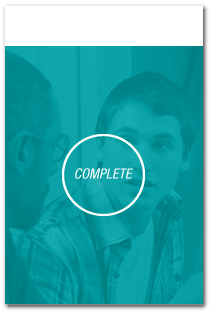
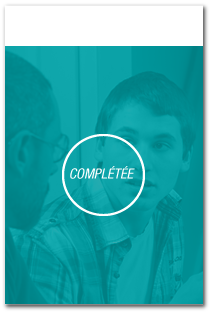
QA slides to french

Changed region(s): [[0.3128, 0.5143, 0.654, 0.5714]]

diff --git a/js/custom/service.js b/js/custom/service.js
@@ -15,7 +15,7 @@ function fnGetDataFromServer(url)
     });
 };
 
-/* VJ ------------------ Change cookie pagewise -----------------------*/
+/* ------------------ Change cookie pagewise -----------------------*/
 function changeCookieValue(newValue) {
     $.removeCookie('current_page');
     $.cookie('current_page', newValue, { expires: 7 });
@@ -619,9 +619,9 @@ function fnSlideWiseContentManage(slide){
             $('#rc-header-2').html("«" + '"' + head + '"' + "»");
             $('#rc-header-que').html("Quelle est la meilleure intervention à ce moment?");
             $('#rc-content-select').removeClass('collapse');
-            $('#rc-opt-1').html('"' + "I'm sure they won't bug you that much. Either way,you can just say no. And don't forgot to get your book back from Julie." + '"');
-            $('#rc-opt-2').html('"' + "Julie doesm't mind having alchohol aria-atomic her parties? You're much too young! You shouldn't hang out with them if they bug you to drink." + '"');
-            $('#rc-opt-3').html('"' + "You're worried about what your friends will say if they see you not drinking. Do you want to talk about it?" + '"');
+            $('#rc-opt-1').html( "« T’exagère, je suis sûre qu’ils ne t’achaleront pas tant que ça. Et puis t’as juste à dire non.  Ah, et n’oublie pas de reprendre ton livre chez Julie.»");
+            $('#rc-opt-2').html( "« Julie accepte qu’il y ait de l’alcool dans ses partys ? Vous êtes bien trop jeunes ! Et puis tu ne devrais pas rester avec eux, s’ils t’achalent pour consommer. »");
+            $('#rc-opt-3').html( "« Tu es préoccupé par la réaction de tes amis s’ils voient que tu ne bois pas.  Tu veux qu’on en parle ? »");
 
             $(".ans-right").find("img").hide();
             $("#l-c-footer-text").hide();
@@ -699,9 +699,9 @@ function fnSlideWiseContentManage(slide){
             $('#rc-content-select').removeClass('collapse');
             $('#rc-header-2').html("");
             $('#rc-header-2').html("<dfn>" + '«' + "C’est sûr que je suis fâchée! Je ne comprends pas pourquoi il a agi comme ça… " + '»' + "</dfn>");
-            $('#rc-opt-1').html('"' + "I am upset, I thought you had understood. Now I can't trust you anymore." + '"');
-            $('#rc-opt-2').html('"' + "I am disappointed in your behaviour. We'll talk tommorrow at breakfast, when you've sobered up." + '"');
-            $('#rc-opt-3').html('"' + "I knew it was a bad idea to let you go to a party where there would be alcohol. Why did you drink? Your friends really are bad influence on you!" + '"');
+            $('#rc-opt-1').html("« Je suis fâchée, je pensais que tu avais compris.  Je ne peux plus te faire confiance maintenant. »");
+            $('#rc-opt-2').html("« Je suis déçue de ton comportement.  On en reparlera demain au déjeuner, quand tu auras dessoûlé. »");
+            $('#rc-opt-3').html("« Je savais que c’était une mauvaise idée de te laisser aller à un party où il y a de l’alcool.  Pourquoi t’as fait ça ? Tes amis ont vraiment une mauvaise influence sur toi! »");
 //
             $(".ans-right").find("img").hide();
             $("#l-c-footer-text").hide();
@@ -734,9 +734,9 @@ function fnSlideWiseContentManage(slide){
             $('#rc-footer-confirm').removeClass('collapse');
             $('#rc-header-2').html("");
             $('#rc-header-2').html("<dfn>" + '«' + "Je veux qu’il sache que je suis contre la consommation d’alcool à son âge mais je veux aussi qu’il puisse compter sur moi quand il a des problèmes." + '»' + "</dfn>");
-            $('#rc-opt-1').html('"' + "Talk to me. I'd like to understand what happend." + '"');
-            $('#rc-opt-2').html('"' + "There's no point in apologizing, I won't here any of it. I don't want you drinking alcohol anymore, that's it." + '"');
-            $('#rc-opt-3').html('"' + "OK,it's your business. Do you want some orange juice" + '"');
+            $('#rc-opt-1').html("« Explique-moi.  J’aimerais comprendre ce qui s’est passé. »");
+            $('#rc-opt-2').html("« Ce n’est pas la peine de t’excuser, je ne veux rien savoir.  Je ne veux plus que tu prennes de l’alcool, c’est tout. »");
+            $('#rc-opt-3').html("« Ok, c’est tes affaires.  Bon, veux-tu un jus d’orange ? »");
 //
             $(".ans-right").find("img").hide();
             $("#l-c-footer-text").hide();
@@ -763,7 +763,7 @@ function fnSlideWiseContentManage(slide){
             $('#rc-footer-text').removeClass('collapse');
             $('#rc-content-text').removeClass('collapse');
             $('#rc-content-text').html("");
-            $('#rc-content-text').html("<span class='font-med f-w-med line-h-125 in-block'>En démontrant du <span class='orange'>soutien</span> et de <span class='orange'>l’affection</span> à Vincent, même dans les moments difficiles, Isabelle s’assure de développer et de maintenir une relation de qualité avec lui. S’il se sent compris, aimé et soutenu par ses parents, l’adolescent sera plus ouvert à discuter de ses problèmes avec eux.<br /><br />Isabelle a su discuter avec Vincent de ses croyances concernant l’alcool et avancer des arguments en la matière. Elle refuse également que Vincent consomme de l’alcool avec ses amis à son âge. Avec raison : plus un jeune commence à boire tôt, plus il risque de développer des comportements d’abus et de dépendance.</span>");
+            $('#rc-content-text').html("<span class='font-med f-w-med line-h-125 in-block' style='font-size: 100%'>En démontrant du <span class='orange'>soutien</span> et de <span class='orange'>l’affection</span> à Vincent, même dans les moments difficiles, Isabelle s’assure de développer et de maintenir une relation de qualité avec lui. S’il se sent compris, aimé et soutenu par ses parents, l’adolescent sera plus ouvert à discuter de ses problèmes avec eux.<br /><br />Isabelle a su discuter avec Vincent de ses croyances concernant l’alcool et avancer des arguments en la matière. Elle refuse également que Vincent consomme de l’alcool avec ses amis à son âge. Avec raison : plus un jeune commence à boire tôt, plus il risque de développer des comportements d’abus et de dépendance.</span>");
             $('#rc-footer-span').html("");
             $('#rc-footer-text').html("<span class='text-uppercase f-w-med'>Et vous?</span>");
             $('#rc-footer-text').append("<ul class='f-w-med'><li><span>Comment démontrez-vous votre soutien et votre affection à votre adolescent?</span></li><li><span>Quelles sont vos règles et vos croyances en matière de consommation d’alcool?</span></li></ul>");
@@ -878,9 +878,9 @@ function fnSlideWiseContentManage(slide){
             $('#rc-header-2').html("");
             $('#rc-header-2').html("<dfn>" + '«' + "Un gars “bizarre”?" + '»' + "</dfn>");
             $('#rc-header-que').html("Quelle est la meilleure intervention à ce moment?");
-            $('#rc-opt-1').html('"' + "Just ignor him.So, Do you like your teachers ?" + '"');
-            $('#rc-opt-2').html('"' + "Who is this guy? Why do you find him wired?" + '"');
-            $('#rc-opt-3').html('"' + "Come on, we don't talk like that about other people! He must not be any different from the others in your class." + '"');
+            $('#rc-opt-1').html("«  Tu n’as qu’à ne pas t’occuper de lui.  Et puis, aimes-tu tes profs ? »");
+            $('#rc-opt-2').html("« C’est qui se gars là ?  Pourquoi tu le trouves bizarre ? »");
+            $('#rc-opt-3').html("« Franchement, on ne parle pas des gens comme ça !  Il n’est sans doute pas si différent des autres de ta classe. »");
             $('#rc-footer-confirm').removeClass('collapse');
 //
             $(".ans-right").find("img").hide();
@@ -911,9 +911,9 @@ function fnSlideWiseContentManage(slide){
             $('#rc-header-2').html();
             $('#rc-header-2').html("<dfn>" + '«' + "Du speed… Est-ce que je devrais lui en parler? Je ne veux pas attiser sa curiosité!" + '»' + "</dfn>");
             $('#rc-header-que').html("Quelle est la meilleure intervention à ce moment?");
-            $('#rc-opt-1').html('"' + "It is very dangerous drug. I forbid you from talking it and I don't want to hear you talking about these things at home ." + '"');
-            $('#rc-opt-2').html('"' + "I'm not sure I should tell you about it. I'm sure they'll explain it to you at school." + '"');
-            $('#rc-opt-3').html('"' + "It's a drug. If you want, we can talk about it..." + '"');
+            $('#rc-opt-1').html("«  C’est une drogue très dangereuse.  Je t’interdis de toucher à ça et je ne veux pas entendre parler de ces affaires-là à la maison. »");
+            $('#rc-opt-2').html("« Je ne sais pas si je devrais t’en parler.  Ils vont sûrement vous expliquer ça à l’école ? »");
+            $('#rc-opt-3').html("«  C’est une drogue.  Si tu veux, on peut en parler… »");
             $('#rc-footer-confirm').removeClass('collapse');
 //
             $(".ans-right").find("img").hide();
@@ -964,9 +964,9 @@ function fnSlideWiseContentManage(slide){
             $('#rc-header-2').empty();
             $('#rc-header-2').append("<dfn>" + '«' + "Tant mieux. Il faudrait que ça reste comme ça : il ne faut pas que Vincent soit influencé par ce jeune-là." + '»' + "</dfn>");
             $('#rc-header-que').text("Quelle est la meilleure intervention à ce moment?");
-            $('#rc-opt-1').text('"' + "We're intrested in getting to know the people you hang out with and what you do together. If the opportunity presents it self, what would you do?" + '"');
-            $('#rc-opt-2').text('"' + "Very good.we know you have good judgement and would never take drugs, So don't pay attentaion him." + '"');
-            $('#rc-opt-3').text('"' + "You're better off. We don't want you hanging out with this guy nor do we want hear about him anymore." + '"');
+            $('#rc-opt-1').text("«  On est intéressés à connaître les gens que tu fréquentes et à savoir ce que vous faites ensemble.  Si la situation se représente, qu’est-ce que tu comptes faire ? »");
+            $('#rc-opt-2').text("« Très bien.  On sait que toi tu as du jugement et que tu ne prendras jamais de drogue, alors ne fais pas attention à lui. »");
+            $('#rc-opt-3').text("« Tant mieux.  On t’interdit de te tenir avec ce gars-là et on ne veut plus en entendre parler. »");
             $('#rc-footer-confirm').removeClass('collapse');
 //
             $(".ans-right").find("img").hide();
@@ -1100,9 +1100,9 @@ function fnSlideWiseContentManage(slide){
             $('#rc-header-2').html("<dfn>" + '«' + "Ça leur ferait plaisir d’inviter leurs amis, mais bon, il ne faudrait pas que ça dégénère…" + '»' + "</dfn>");
             $('#rc-header-que').html("Quelle est la meilleure intervention à ce moment?");
             $('#rc-content-select').removeClass('collapse');
-            $('#rc-opt-1').html('"' + "Ok, you can invite Matthew ans Sarah." + '"');
-            $('#rc-opt-2').html('"' + "No problem,you can do whatever you like so long as everybody's gone when we get back!" + '"');
-            $('#rc-opt-3').html('"' + "Absolutely not. There's no way we're going to allow a party to happen while we're not here." + '"');
+            $('#rc-opt-1').html("« Ok, vous pouvez inviter Mathieu et Delphine. »");
+            $('#rc-opt-2').html("« Pas de problème, faites ce que vous voulez tant que les gens sont partis quand on arrive ! »");
+            $('#rc-opt-3').html("« Non, pas question que ça finisse en party pendant qu’on n’est pas là. »");
 
             $(".ans-right").find("img").hide();
             $("#l-c-footer-text").hide();
@@ -1134,9 +1134,9 @@ function fnSlideWiseContentManage(slide){
             $('#rc-header-2').html("");
             $('#rc-header-2').html("<dfn>" + '«' + "On veut leur permettre de vivre des expériences mais on doit établir des règles claires qu’ils doivent respecter. " + '»' + "</dfn>");
             $('#rc-header-que').html("Quelle est la meilleure intervention à ce moment?");
-            $('#rc-opt-1').html('"' + "Go ahead,You're going to do what you want anyways." + '"');
-            $('#rc-opt-2').html('"' + "No, you cannot have any alcohol.But it's true that we've never actually speoken about this. As we do for everything else, we're going to take the time to discuss this and establish some ground rules." + '"');
-            $('#rc-opt-3').html('"' + "Out of the question.If you have any beer, you'll never be allowed to have any friends over again.Got it?" + '"');
+            $('#rc-opt-1').html("« Faites comme vous voulez, de toute façon vous faites toujours à votre tête. »");
+            $('#rc-opt-2').html("« Non, vous ne pouvez pas prendre d’alcool.  Mais c’est vrai qu’on n’en n’a jamais parlé clairement ensemble.  Comme pour tout le reste, on va prendre le temps d’en discuter et de s’entendre sur les règles. »");
+            $('#rc-opt-3').html("« Pas question.  Si jamais vous prenez une bière, vous ne pourrez plus jamais inviter d’amis à la maison.  Compris ? »");
             $('#rc-footer-confirm').removeClass('collapse');
 //
             $(".ans-right").find("img").hide();
@@ -1204,9 +1204,9 @@ function fnSlideWiseContentManage(slide){
             $('#rc-header-2').html("");
             $('#rc-header-2').html("<dfn>" + '«' + "Je suis en colère mais je dois me contrôler pour ne pas dire des choses que je vais regretter." + '»' + "</dfn>");
             $('#rc-header-que').html("Quelle est la meilleure intervention à ce moment?");
-            $('#rc-opt-1').html('"' + "You understand that there will be consequences.No friends over for the next month." + '"');
-            $('#rc-opt-2').html('"' + "You always do what you want! We'll never get anywere with you! Wait untill your father gets homeâ€¦" + '"');
-            $('#rc-opt-3').html('"' + "Ok,I am in no state to agure,so let's drop it.Don't tell your father and we'll forget it even happened." + '"');
+            $('#rc-opt-1').html("« Là, vous comprenez qu’il y aura des conséquences : pas d’amis à la maison pendant le prochain mois. »");
+            $('#rc-opt-2').html("« Vous faites toujours à votre tête !  On n’arrivera jamais à rien avec vous autres !  Attendez que votre père arrive… »");
+            $('#rc-opt-3').html("« Bon, OK.  Je ne suis pas en état de me chicaner, alors on n’en parle plus.  Ne le dites pas à votre père, on efface tout. »");
             $('#rc-footer-confirm').removeClass('collapse');
 //
             $(".ans-right").find("img").hide();
@@ -1235,7 +1235,7 @@ function fnSlideWiseContentManage(slide){
             $('#rc-content-text').removeClass('collapse');
             $('#rc-footer-text').removeClass("collapse");
             $('#rc-content-text').html("");
-            $('#rc-content-text').html("<span class='font-med f-w-med line-h-125 in-block'>Les bonnes pratiques parentales font référence au <span class='orange'>contrôle parental</span> (composé d’encadrement et d’autorisation), à la <span class='orange'>tolérance</span> et au <span class='orange'>style disciplinaire inductif</span> (fondé sur la négociation).<br /><br />Alexandra et Vincent savaient qu’ils devaient demander l’autorisation de recevoir des amis à la maison en l’absence de leurs parents. En acceptant tout en fixant des règles claires, Éric et Isabelle ont fait preuve une tolérance et un bon encadrement. Ils ont également agi pour protéger leurs enfants des risques d’une consommation d’alcool prématurée. Lorsque les règles ont été brisées, il était acceptable qu’Isabelle exerce un style disciplinaire punitif, sans agressivité.</span>");
+            $('#rc-content-text').html("<span class='font-med f-w-med line-h-125 in-block' style='font-size: 100%'>Les bonnes pratiques parentales font référence au <span class='orange'>contrôle parental</span> (composé d’encadrement et d’autorisation), à la <span class='orange'>tolérance</span> et au <span class='orange'>style disciplinaire inductif</span> (fondé sur la négociation).<br /><br />Alexandra et Vincent savaient qu’ils devaient demander l’autorisation de recevoir des amis à la maison en l’absence de leurs parents. En acceptant tout en fixant des règles claires, Éric et Isabelle ont fait preuve une tolérance et un bon encadrement. Ils ont également agi pour protéger leurs enfants des risques d’une consommation d’alcool prématurée. Lorsque les règles ont été brisées, il était acceptable qu’Isabelle exerce un style disciplinaire punitif, sans agressivité.</span>");
             $('#rc-footer-span').html("");
             $('#rc-footer-text').html("<span class='text-uppercase f-w-med'>Et vous?</span>");
             $('#rc-footer-text').append("<ul class='f-w-med'><li><span>Comment exercez-vous votre contrôle parental?</span></li><li><span>Quel est votre seuil de tolérance?</span></li><li><span>Quel est votre style disciplinaire?</span></li></ul>");
@@ -1350,9 +1350,9 @@ function fnSlideWiseContentManage(slide){
             $('#rc-header-2').html("");
             $('#rc-header-2').html("<dfn>" + '«' + "Je n’en reviens pas. Je suis furieux, mais je veux en savoir plus pour qu’on trouve une solution ensemble." + '»' + "</dfn>");
             $('#rc-header-que').html("Quelle est la meilleure intervention à ce moment?");
-            $('#rc-opt-1').html('"' + "That's enough! You have to stop it right way. You cannot flunk the school year because of this." + '"');
-            $('#rc-opt-2').html('"' + "Don't tell me you've become a pothead like your cousion? Honestly, I throught you were smarter than that." + '"');
-            $('#rc-opt-3').html('"' + "I would really like us to talk about it.How often do you smoke?" + '"');
+            $('#rc-opt-1').html("« Ça ne se peut pas !  Tu vas arrêter ça tout de suite.  Tu ne peux pas couler ton année scolaire à cause de ça. »");
+            $('#rc-opt-2').html("« Ne me dis pas que tu es rendue une « poteuse » comme ton cousin ?  Franchement, je te pensais plus intelligente que ça. »");
+            $('#rc-opt-3').html("« J’aimerais qu’on en parle.  Est-ce que tu fumes souvent ? »");
             $('#rc-footer-confirm').removeClass('collapse');
 //
             $(".ans-right").find("img").hide();
@@ -1385,9 +1385,9 @@ function fnSlideWiseContentManage(slide){
             $('#rc-header-2').html("");
             $('#rc-header-2').html("<dfn>" + '«' + "Comment garder son calme et expliquer l’impact de la consommation de cannabis." + '»' + "</dfn>");
             $('#rc-header-que').html("Quelle est la meilleure intervention à ce moment?");
-            $('#rc-opt-1').html('"' + "Ok,it's your business,but if you deal with stress by smoking pot, you won't get very far in life." + '"');
-            $('#rc-opt-2').html('"' + "Just pot? And after that, just cocaine and then you're just a drug addict! It's just your life after all." + '"');
-            $('#rc-opt-3').html('"' + "Hold on, pot is drug like any other and it's bad for you! If you use it regularly, it'll have the, it will have the exact opposite effects from what you described." + '"');
+            $('#rc-opt-1').html("« Bon, c’est ton affaire, mais si tu gères toujours ton stress en fumant du pot, tu n’iras pas bien loin dans la vie. »");
+            $('#rc-opt-2').html("« Juste du pot ! Et après ça sera juste de la cocaïne et tu seras juste  une droguée ! Après tout, c’est juste ta vie. »");
+            $('#rc-opt-3').html("« Un instant, le pot, c’est une drogue et toutes les drogues ont des impacts !  En consommer régulièrement, ça donne exactement le contraire de ce que tu as dit. »");
             $('#rc-footer-confirm').removeClass('collapse');
 //
             $(".ans-right").find("img").hide();
@@ -1420,9 +1420,9 @@ function fnSlideWiseContentManage(slide){
             $('#rc-header-2').html("");
             $('#rc-header-2').html("<dfn>" + '«' + "Comment l’amener à arrêter de fumer et à se reprendre en main à l’école?" + '»' + "</dfn>");
             $('#rc-header-que').text("Quelle est la meilleure intervention à ce moment?");
-            $('#rc-opt-1').text('"' + "Your mother and I are against you smoking pot. I'd like for us to look into other ways to mange your stress." + '"');
-            $('#rc-opt-2').text('"' + "Clearly, You're not mature enough to find a soluation. For now, you'll come straight home after school to do your homework." + '"');
-            $('#rc-opt-3').text('"' + "It's simple-you are going to improve your grades and your mother and I never want to hear about drugs again." + '"');
+            $('#rc-opt-1').text("« Ta mère et moi, on est contre le fait que tu fumes du pot.  Mais j’aimerais qu’on regarde comment on peut t’aider à gérer ton stress autrement. »");
+            $('#rc-opt-2').text("« Visiblement, tu n’es pas assez mature pour trouver une solution.  À partir de maintenant, tu rentres tout de suite après l’école pour faire tes devoirs. »");
+            $('#rc-opt-3').text("« C’est simple : tu améliores tes notes et ta mère et moi, on ne veut plus entendre parler de drogue. »");
             $('#rc-footer-confirm').removeClass('collapse');
 //
             $(".ans-right").find("img").hide();
@@ -1566,7 +1566,7 @@ function fnSlideWiseContentManage(slide){
             else if (scrw <= 980) {
                 $('.well').css('width', '86%');
             }
-			else if (scrw <= 1366) {
+            else if (scrw <= 1366) {
                 $('.well').css('width', '87%');
             }
             else if (scrw >= 1920) {
@@ -1674,8 +1674,8 @@ function fnSlideWiseEffectManage(curTime,singleObj){
                 if(curTime == getSlideWiseData.popupImg[intIndex].endingTime && getSlideWiseData.name=="capsule1_slide12"){
                     $('.'+getSlideWiseData.popupImg[intIndex].imgClass).fadeOut(1000);
                     /*$('#fw-header-1').html('');
-                    $('#fw-header-2').html('');
-                    $('.fw-header').css("display","none");*/
+                     $('#fw-header-2').html('');
+                     $('.fw-header').css("display","none");*/
                 }
             }
             break;
@@ -1997,7 +1997,6 @@ function fnShowSelectedAnsData(){
                             $('#right'+answer_JSON[i].rightOption).show();
                             $('#lc-footer-img').hide();
                             setupAudioControls(audioSrcBase_mp3+answer_JSON[i].positiveFeedback.audio[0]);
-                            $("#next").css("pointer-events",'auto');
                             $("#val"+viewedSlides[index].userSelectedAns).prop("checked", true);
                         }
                         else{
@@ -2009,12 +2008,12 @@ function fnShowSelectedAnsData(){
                             $('#lc-footer-img').hide();
                             $('#right'+answer_JSON[i].rightOption).show();
                             setupAudioControls(audioSrcBase_mp3+answer_JSON[i].negativeFeedback.audio[0]);
-                            $("#next").css("pointer-events",'auto');
                         }
                         $("#option1").css("pointer-events",'none');
                         $("#option2").css("pointer-events",'none');
                         $("#option3").css("pointer-events",'none');
                         $("#validate-answer").css("pointer-events",'none');
+                        $("#next").css("pointer-events",'auto');
                     }
                 }
             }
@@ -2022,3 +2021,4 @@ function fnShowSelectedAnsData(){
     });
 }
 
+$('#rc-opt-2').html('"' + " Je suis déçue de ton comportement.  On en reparlera demain au déjeuner, quand tu auras dessoûlé." + '"');

diff --git a/js/custom/main.js b/js/custom/main.js
@@ -100,7 +100,7 @@ $(document).ready(function(){
                     $("#slide-capsule1").removeClass('collapse');
                     fnSlideWiseContentManage(current_page_cookie);
                     setupAudioControls(audioSrcBase_mp3+obj.audioName[0]);
-                    showLoader('#slide-dyn');
+//                    showLoader('#slide-dyn');
                     getTopicWiseData(i);
                     if(objAPT_JSON[i+1] != undefined){
                         preloadImages(objAPT_JSON[i+1]);

diff --git a/css/bootstrap.min.css b/css/bootstrap.min.css
@@ -4392,6 +4392,7 @@ tbody.collapse.in {
 
         .dropdown-menu li .toggle-header {
             padding: 1% 1.5%;
+            cursor: pointer;
             /*border-bottom: 1px solid #E3E3E3;*/
         }
 
@@ -4401,6 +4402,7 @@ tbody.collapse.in {
 
     .dropdown-menu .tgldt li {
         padding: 0.5% 1%;
+        cursor: pointer;
     }
 
         .dropdown-menu .tgldt li:hover {
